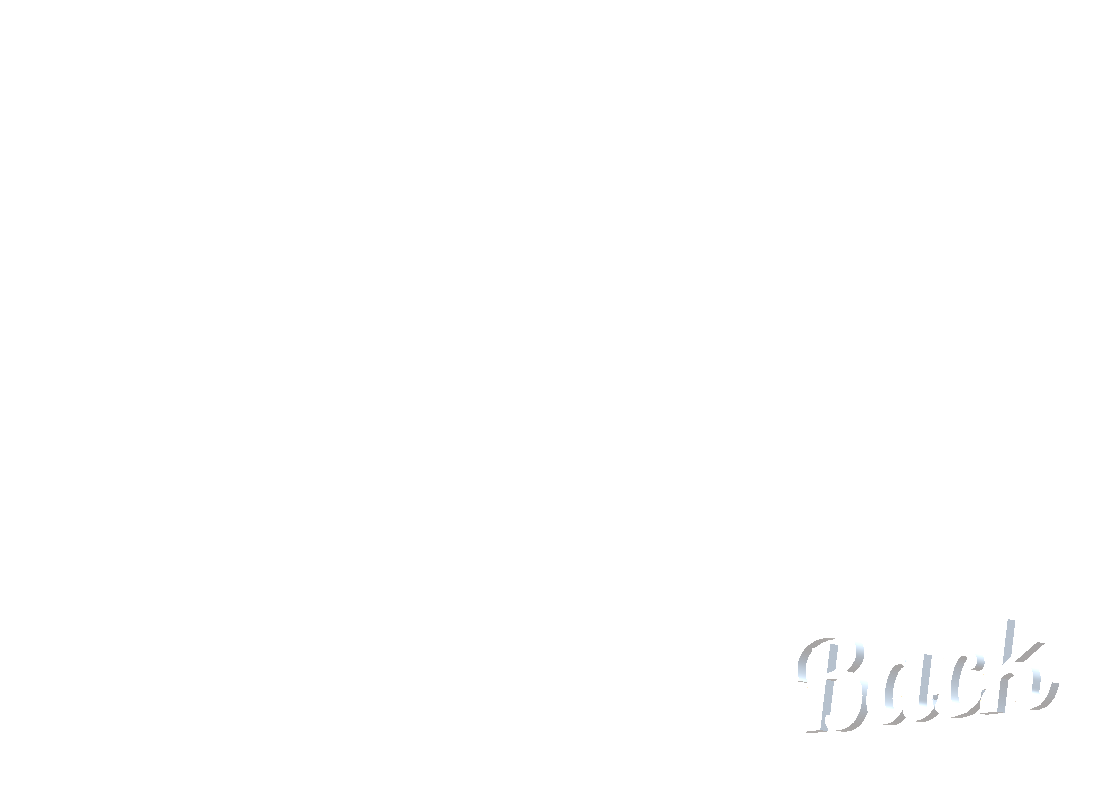
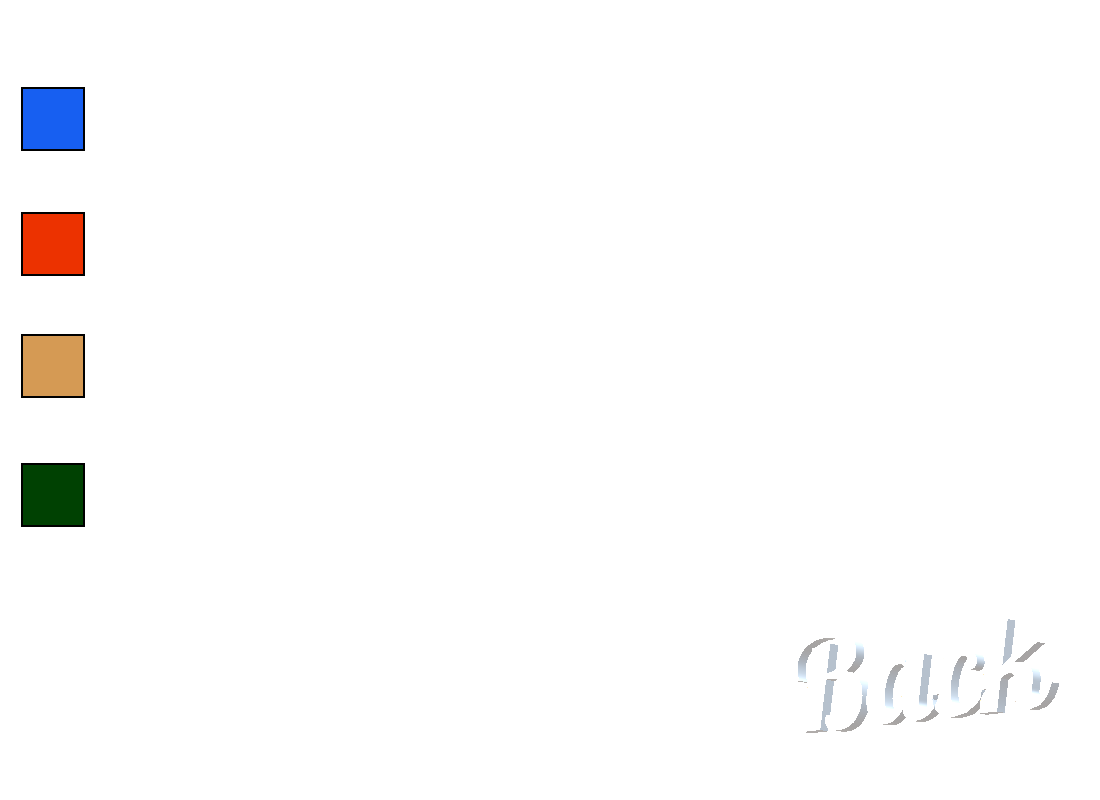
Worked on hidden player screen

diff --git a/states/HiddenPlayerState.py b/states/HiddenPlayerState.py
@@ -25,8 +25,10 @@ class HiddenPlayerState(State):
 
         # Rectangle Dict
         self.rects = {
-            Rect(1050, 750, 50, 50): Collin(150, 100, handler),
-            Rect(14, 503, 54, 55): Shed(150, 100, handler)
+            Rect(23, 89, 60, 60): Collin(150, 100, handler),
+            Rect(23, 214, 60, 60): Shed(150, 100, handler),
+            Rect(23, 336, 60, 60): Shed(150, 100, handler),
+            Rect(23, 465, 60, 60): Shed(150, 100, handler)
         }
 
         self.color_rects = {
